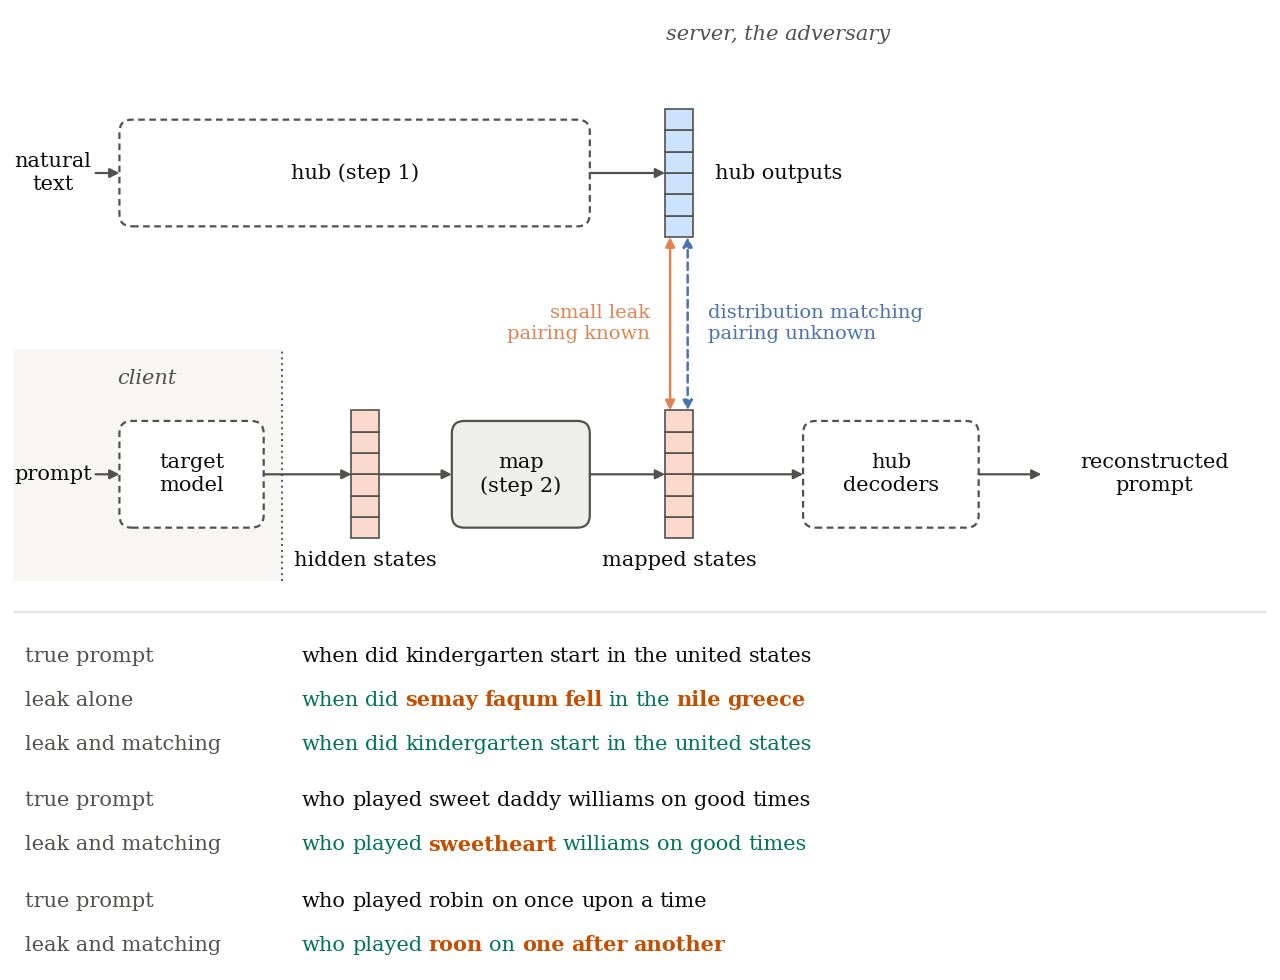
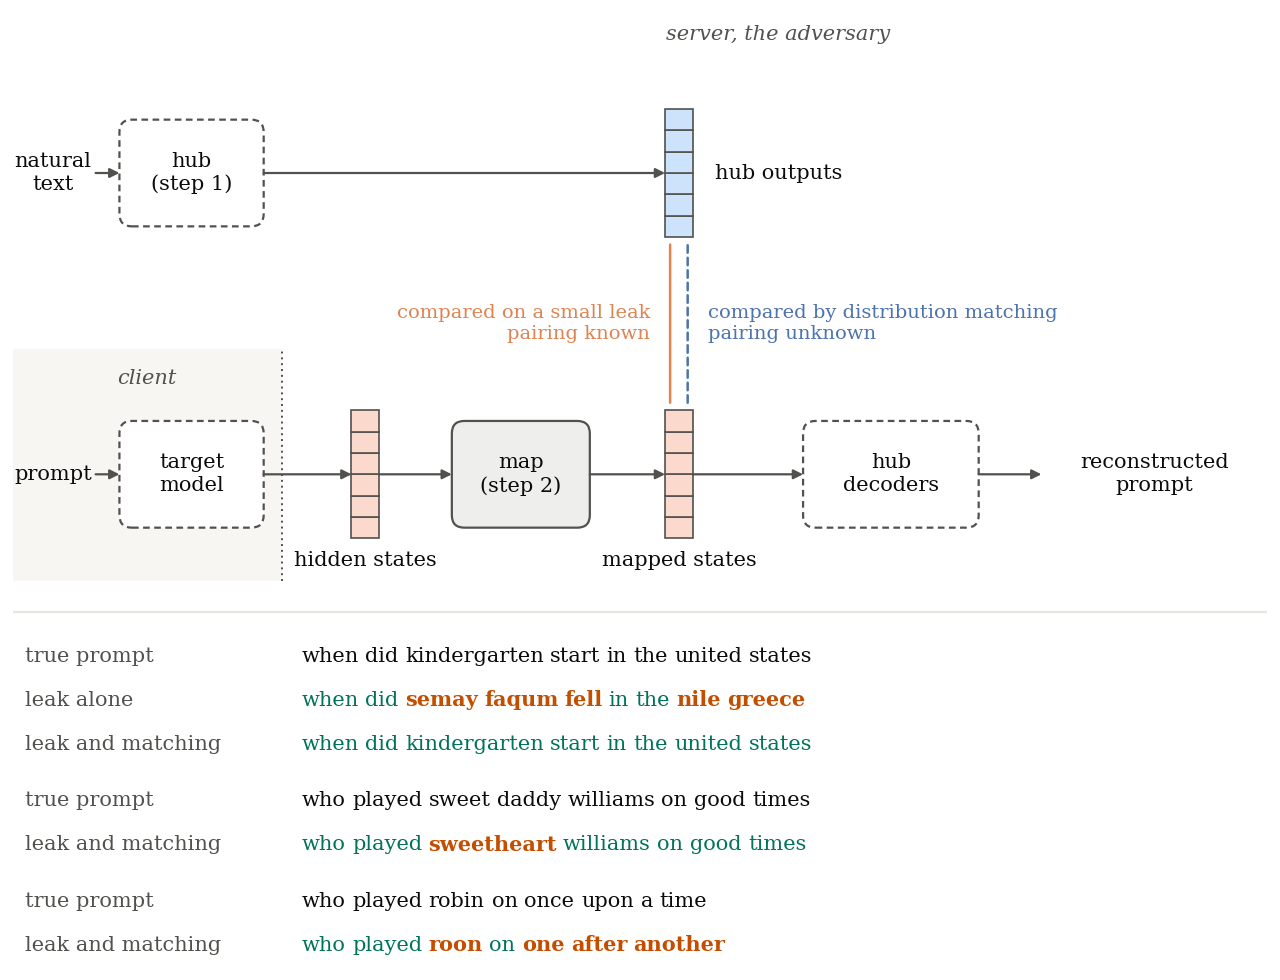
ch1 overview figure: small hub box with long arrow; training comparisons drawn as lines, not flow arrows

diff --git a/figures/scripts/make_figures.py b/figures/scripts/make_figures.py
@@ -147,10 +147,10 @@ def overview():
     ax.text(61, 66, "server, the adversary", ha="center", va="center", fontsize=7.5, color=INK2, style="italic")
     vs, vx = 27, 52
     ax.text(3.2, top, "natural\ntext", ha="center", va="center", fontsize=7.5, color=INK, linespacing=1.25)
-    box(8.5, top, 37.5, "hub (step 1)", "#ffffff", dashed=True)
+    box(8.5, top, 11.5, "hub\n(step 1)", "#ffffff", dashed=True)
     arrow(6.6, top, 8.5, top)
     lo_t, hi_t = vector(vx, top, "#cde2fb")
-    arrow(46, top, vx, top)
+    arrow(20, top, vx, top)
     ax.text(vx + 4.0, top, "hub outputs", ha="left", va="center", fontsize=7.5, color=INK)
     # Step 2, bottom lane: the prompt leaves the client as hidden states; the map and the hub decoders turn them into text.
     ax.add_patch(plt.Rectangle((0, 22.5), 21.5, 18.5, fc="#f7f6f3", ec="none"))
@@ -172,11 +172,11 @@ def overview():
     arrow(77, bottom, 82, bottom)
     ax.text(91, bottom, "reconstructed\nprompt", ha="center", va="center", fontsize=7.5, color=INK, linespacing=1.25)
     # The two terms that train the map, between the hub outputs and the mapped states.
-    arrow(vx + 0.4, hi_b, vx + 0.4, lo_t, color=SUPERVISED, style="<|-|>")
-    arrow(vx + 1.8, hi_b, vx + 1.8, lo_t, color=HYBRID, style="<|-|>", ls=(0, (3, 2)))
+    arrow(vx + 0.4, hi_b + 0.6, vx + 0.4, lo_t - 0.6, color=SUPERVISED, style="-")
+    arrow(vx + 1.8, hi_b + 0.6, vx + 1.8, lo_t - 0.6, color=HYBRID, style="-", ls=(0, (3, 2)))
     mid = (hi_b + lo_t) / 2
-    ax.text(vx - 1.2, mid, "small leak\npairing known", ha="right", va="center", fontsize=7, color=SUPERVISED, linespacing=1.25)
-    ax.text(vx + 3.4, mid, "distribution matching\npairing unknown", ha="left", va="center", fontsize=7, color=HYBRID,
+    ax.text(vx - 1.2, mid, "compared on a small leak\npairing known", ha="right", va="center", fontsize=7, color=SUPERVISED, linespacing=1.25)
+    ax.text(vx + 3.4, mid, "compared by distribution matching\npairing unknown", ha="left", va="center", fontsize=7, color=HYBRID,
             linespacing=1.25)
     # Example reconstructions, word by word: green where the word is in the true prompt.
     ax.plot([0, 100], [20, 20], color=GRID, lw=0.8)
